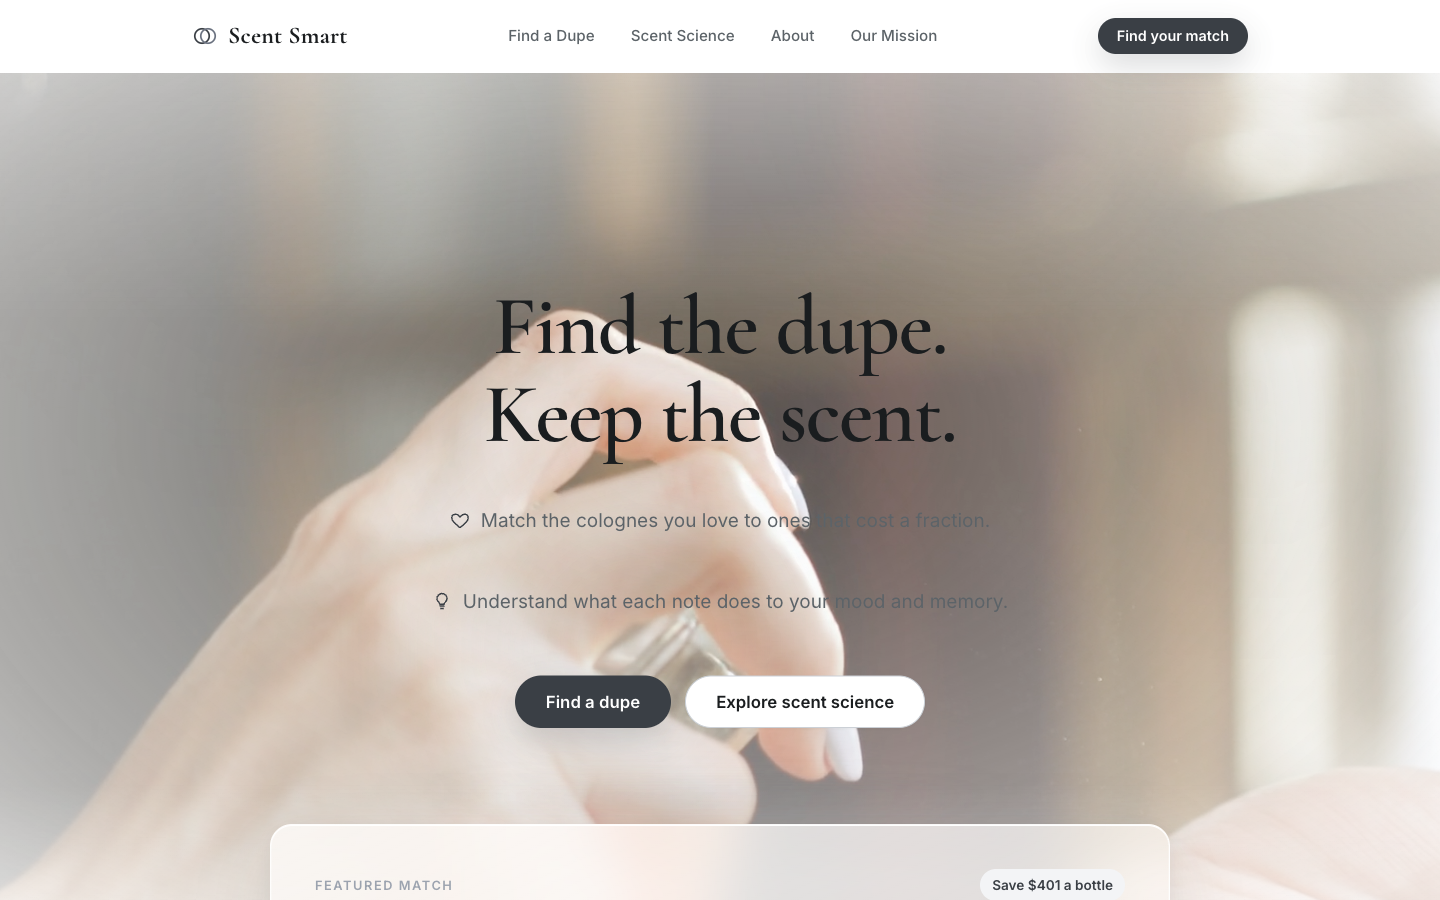
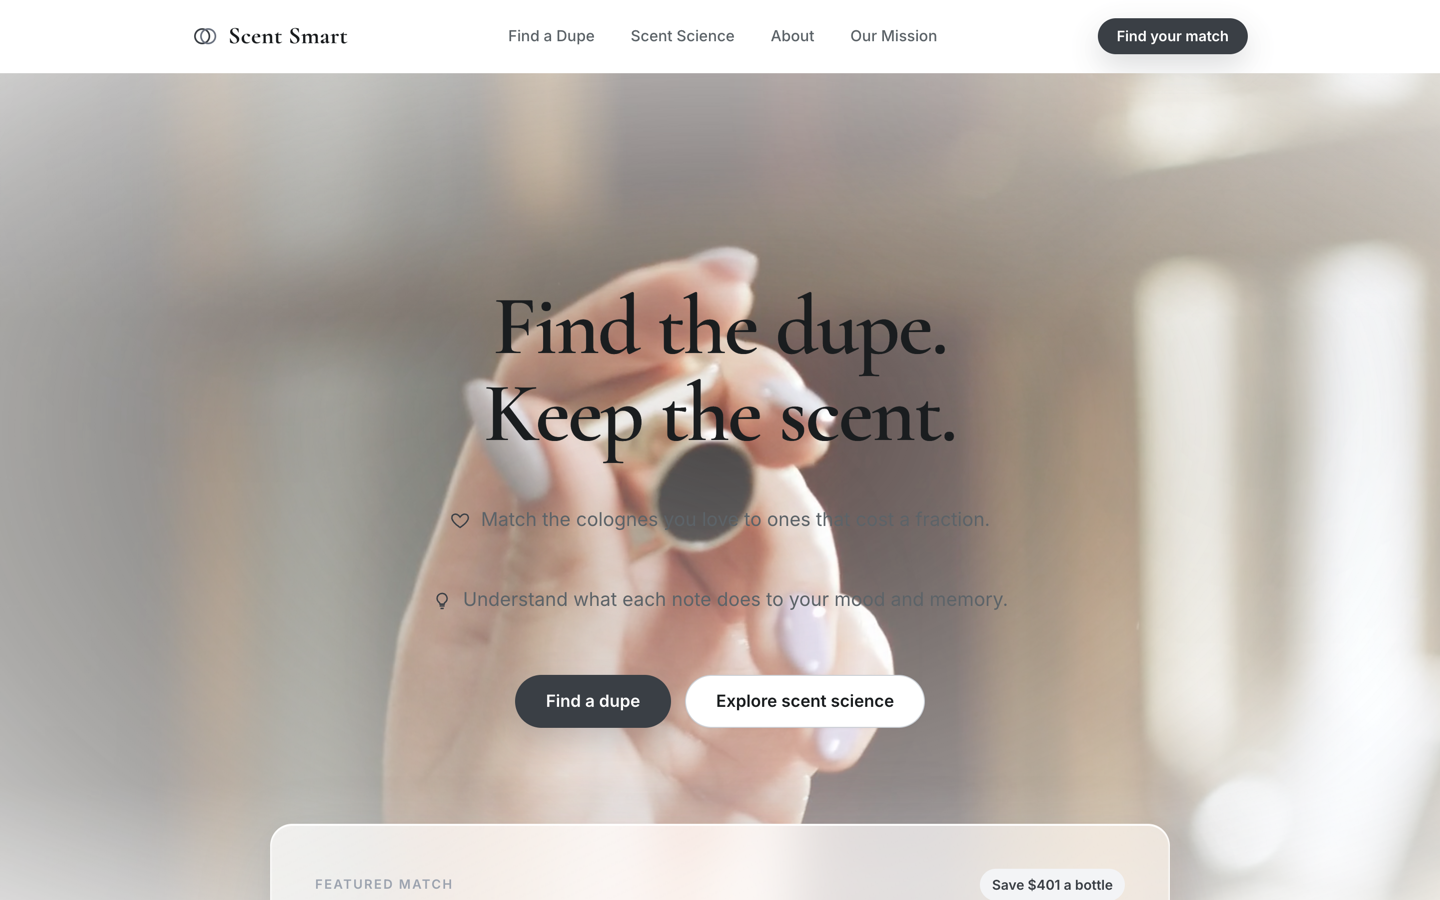
Swap FairPlay for Joelle Klein site, refresh all work screenshots
FairPlay is no longer work worth showing on the front page. Replaced that
card with joelleklein.com, the college essay coaching site that shipped in
August, with copy and stack tags matching the real build (Next.js 16 +
Tailwind 4) and a warm terracotta/wine glow pair drawn from her palette
rather than FairPlay's teal/lime.

Recaptured every preview at 1440x900 from the live sites so the grid shows
what these actually look like today, not their launch-day state. Captured
at 2x and downsampled for a cleaner result, with entrance animations
settled and Vantage's consent bar hidden for the shot so the preview shows
the page rather than the banner.

diff --git a/src/app/page.tsx b/src/app/page.tsx
@@ -57,16 +57,16 @@ const PROJECTS: Project[] = [
     image: "/work/scent-smart.png",
   },
   {
-    title: "FairPlay",
+    title: "Joelle Klein Essay Coaching",
     blurb:
-      "A price-comparison platform that scrapes 10+ retailers for the best deals on sports gear, starting with lacrosse. Browse new and used gear, compare prices, and set alerts.",
-    tags: ["Next.js", "Supabase", "Marketplace"],
+      "A marketing site for a college essay coach who takes high school seniors from first idea to final draft. Clear packages, an honest walkthrough of the process, and a free intro call, built to make a nervous decision feel simple.",
+    tags: ["Next.js", "Tailwind", "Coaching"],
     year: "2026",
-    hue: "#2dd4bf",
-    hue2: "#c7f25b",
-    href: "https://fairplaygear.com",
-    url: "fairplaygear.com",
-    image: "/work/fairplay.png",
+    hue: "#e07a5f",
+    hue2: "#c0405f",
+    href: "https://joelleklein.com",
+    url: "joelleklein.com",
+    image: "/work/joelle.png",
   },
   {
     title: "Dr. Rob Chiropractic",
